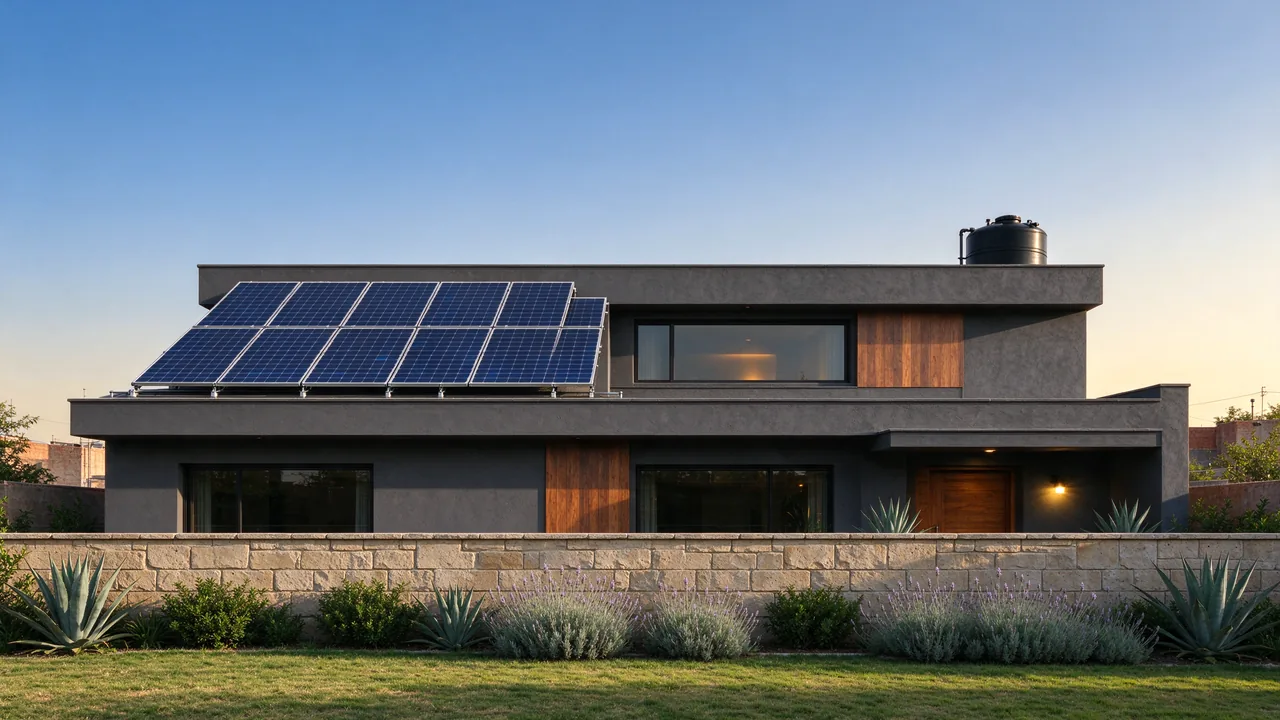
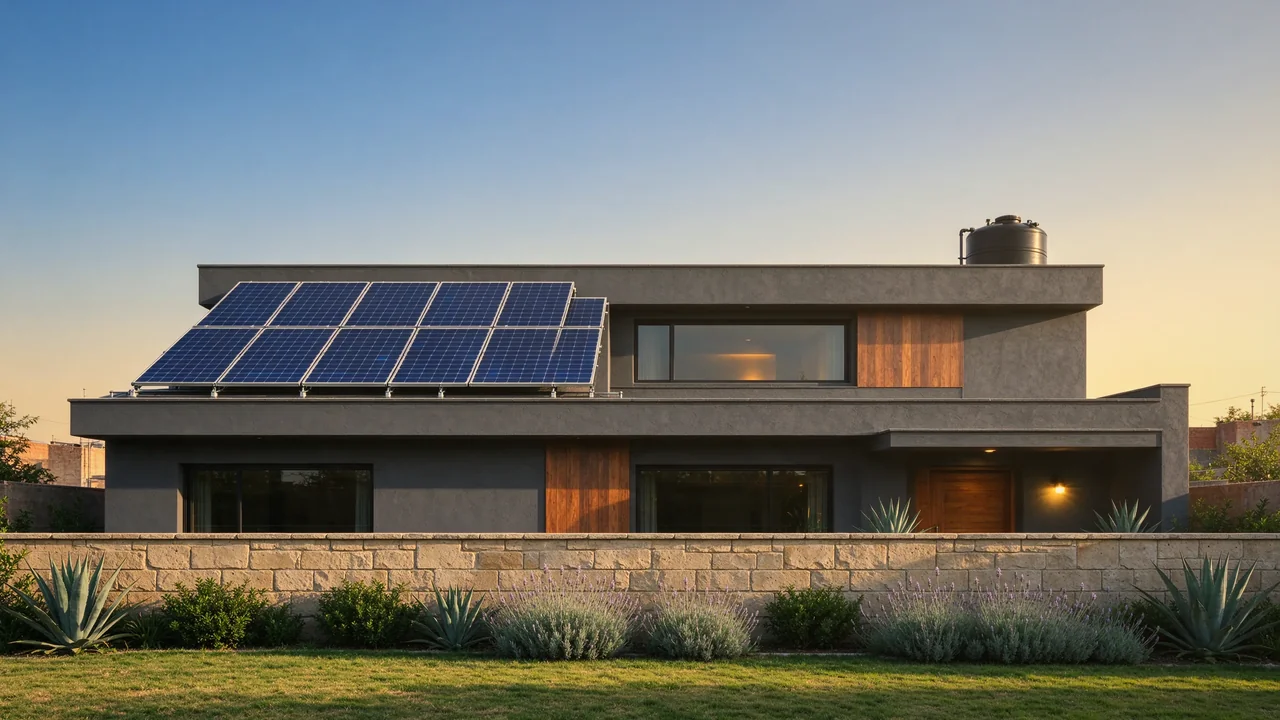
Fase 4: un solo estilo de luz cálida para todas las fotos
- herramientas/estilo-imagen.py: tonos divididos (altas luces ámbar,
  sombras azul petróleo), sol bajo, contraste y viñeta; exporta WebP en
  dos tamaños y conserva la transparencia. Sirve también para las fotos
  reales de Ecowatt.
- Aplicado a las capas de día del hero y a casa, negocio e industria;
  la de noche no cambia.
- sizes del hero corregido (la casa mide ~94vw en escritorio) y width/
  height en sus capas.
- docs/imagenes-ia.md: prompts listos y destinos para detalle de panel,
  instaladores y familia (sin créditos en Kling ni Higgsfield).

Claude-Session: https://claude.ai/code/session_018LXk8Kauve6fh3BffYK94r

diff --git a/index.html b/index.html
@@ -23,7 +23,7 @@
   <link rel="preconnect" href="https://fonts.googleapis.com">
   <link rel="preconnect" href="https://fonts.gstatic.com" crossorigin>
   <link rel="stylesheet" href="https://fonts.googleapis.com/css2?family=Red+Hat+Display:wght@600&family=Red+Hat+Text:wght@400;500;600&display=swap">
-  <link rel="preload" as="image" imagesrcset="assets/img/hero/dia-casa-1280.webp 1280w, assets/img/hero/dia-casa.webp 2400w" imagesizes="(min-width: 960px) 68vw, 120vw" fetchpriority="high">
+  <link rel="preload" as="image" imagesrcset="assets/img/hero/dia-casa-1280.webp 1280w, assets/img/hero/dia-casa.webp 2400w" imagesizes="(min-width: 960px) 94vw, (min-width: 768px) 100vw, 120vw" fetchpriority="high">
   <link rel="stylesheet" href="assets/css/ecowatt.css">
 
   <!--
@@ -196,17 +196,17 @@
 
       <div class="hero-escena">
         <div class="hero-capa hero-cielo" aria-hidden="true">
-          <img id="cielo-dia" alt="" src="assets/img/hero/dia-cielo.webp" srcset="assets/img/hero/dia-cielo-800.webp 800w, assets/img/hero/dia-cielo.webp 1600w" sizes="(min-width: 960px) 55vw, 100vw" fetchpriority="high" decoding="async">
-          <img id="cielo-noche" alt="" src="assets/img/hero/noche-cielo.webp" srcset="assets/img/hero/noche-cielo-800.webp 800w, assets/img/hero/noche-cielo.webp 1600w" sizes="(min-width: 960px) 55vw, 100vw" fetchpriority="low" decoding="async">
+          <img id="cielo-dia" alt="" src="assets/img/hero/dia-cielo.webp" width="1600" height="900" srcset="assets/img/hero/dia-cielo-800.webp 800w, assets/img/hero/dia-cielo.webp 1600w" sizes="(min-width: 960px) 55vw, 100vw" fetchpriority="high" decoding="async">
+          <img id="cielo-noche" alt="" src="assets/img/hero/noche-cielo.webp" width="1600" height="900" srcset="assets/img/hero/noche-cielo-800.webp 800w, assets/img/hero/noche-cielo.webp 1600w" sizes="(min-width: 960px) 55vw, 100vw" fetchpriority="low" decoding="async">
         </div>
         <div class="hero-casa">
           <div class="set is-on" id="set-dia">
-            <div class="hero-capa suelo"><img alt="" src="assets/img/hero/dia-suelo.webp" srcset="assets/img/hero/dia-suelo-1280.webp 1280w, assets/img/hero/dia-suelo.webp 2400w" sizes="(min-width: 960px) 68vw, 120vw" fetchpriority="high" decoding="async"></div>
-            <img class="recorte" alt="Casa contemporánea con paneles solares en la azotea, de día" src="assets/img/hero/dia-casa.webp" srcset="assets/img/hero/dia-casa-1280.webp 1280w, assets/img/hero/dia-casa.webp 2400w" sizes="(min-width: 960px) 68vw, 120vw" fetchpriority="high" decoding="async">
+            <div class="hero-capa suelo"><img alt="" src="assets/img/hero/dia-suelo.webp" width="2400" height="1350" srcset="assets/img/hero/dia-suelo-1280.webp 1280w, assets/img/hero/dia-suelo.webp 2400w" sizes="(min-width: 960px) 94vw, (min-width: 768px) 100vw, 120vw" fetchpriority="high" decoding="async"></div>
+            <img class="recorte" alt="Casa contemporánea con paneles solares en la azotea, de día" src="assets/img/hero/dia-casa.webp" width="2400" height="1350" srcset="assets/img/hero/dia-casa-1280.webp 1280w, assets/img/hero/dia-casa.webp 2400w" sizes="(min-width: 960px) 94vw, (min-width: 768px) 100vw, 120vw" fetchpriority="high" decoding="async">
           </div>
           <div class="set" id="set-noche">
-            <div class="hero-capa suelo"><img alt="" src="assets/img/hero/noche-suelo.webp" srcset="assets/img/hero/noche-suelo-1280.webp 1280w, assets/img/hero/noche-suelo.webp 2400w" sizes="(min-width: 960px) 68vw, 120vw" fetchpriority="low" decoding="async"></div>
-            <img class="recorte" alt="La misma casa de noche, con las ventanas iluminadas" src="assets/img/hero/noche-casa.webp" srcset="assets/img/hero/noche-casa-1280.webp 1280w, assets/img/hero/noche-casa.webp 2400w" sizes="(min-width: 960px) 68vw, 120vw" fetchpriority="low" decoding="async">
+            <div class="hero-capa suelo"><img alt="" src="assets/img/hero/noche-suelo.webp" width="2400" height="1350" srcset="assets/img/hero/noche-suelo-1280.webp 1280w, assets/img/hero/noche-suelo.webp 2400w" sizes="(min-width: 960px) 94vw, (min-width: 768px) 100vw, 120vw" fetchpriority="low" decoding="async"></div>
+            <img class="recorte" alt="La misma casa de noche, con las ventanas iluminadas" src="assets/img/hero/noche-casa.webp" width="2400" height="1350" srcset="assets/img/hero/noche-casa-1280.webp 1280w, assets/img/hero/noche-casa.webp 2400w" sizes="(min-width: 960px) 94vw, (min-width: 768px) 100vw, 120vw" fetchpriority="low" decoding="async">
           </div>
         </div>
         <div class="hero-tilt"></div>

diff --git a/herramientas/estilo-imagen.py b/herramientas/estilo-imagen.py
@@ -1,0 +1,123 @@
+"""Da a una foto el estilo visual de Ecowatt y la exporta en WebP, en dos tamaños.
+
+El estilo es luz cálida de atardecer con sombras azul petróleo, para que todas
+las fotos de la página se vean de la misma sesión:
+  - altas luces hacia ámbar y sombras hacia azul verdoso (los colores de la marca),
+  - un sol bajo que entra por una esquina (screen suave),
+  - un poco más de contraste y una viñeta ligera.
+
+Sirve para las imágenes generadas con IA y, sobre todo, para las fotos reales
+que mande Ecowatt: así todas quedan con la misma luz.
+
+Uso:
+  python3 herramientas/estilo-imagen.py ENTRADA SALIDA_BASE [--anchos 1200 720]
+         [--recorte 4:3] [--sol derecha|izquierda|ninguno] [--fuerza 1.0]
+
+Ejemplo:
+  python3 herramientas/estilo-imagen.py fotos/techo.jpg assets/img/secciones/techo --anchos 1200 720 --recorte 4:3
+  → assets/img/secciones/techo.webp (1200 px) y assets/img/secciones/techo-720.webp
+
+Una imagen con transparencia (PNG o WebP con canal alfa) conserva su alfa.
+Requiere Pillow y NumPy.
+"""
+import argparse
+import pathlib
+
+import numpy as np
+from PIL import Image
+
+AMBAR = np.array([1.00, 0.92, 0.81])      # multiplicador de altas luces (cálido)
+PETROLEO = np.array([0.86, 0.98, 1.04])   # multiplicador de sombras (azul verdoso)
+SOL = np.array([1.00, 0.72, 0.42])        # color del sol bajo
+
+
+def suave(a, b, x):
+    t = np.clip((x - a) / (b - a), 0, 1)
+    return t * t * (3 - 2 * t)
+
+
+def estilo(rgb, fuerza=1.0, sol='derecha'):
+    """rgb: arreglo float 0–1 de forma (alto, ancho, 3). Devuelve el arreglo con el estilo aplicado."""
+    h, w, _ = rgb.shape
+    lum = (rgb * [0.2126, 0.7152, 0.0722]).sum(-1, keepdims=True)
+
+    # 1. Tonos divididos: altas luces cálidas, sombras azul petróleo
+    alto = suave(0.40, 1.0, lum) * 0.75 * fuerza
+    bajo = (1 - suave(0.0, 0.55, lum)) * 0.9 * fuerza
+    out = rgb * (1 - alto) + rgb * AMBAR * alto
+    out = out * (1 - bajo) + out * PETROLEO * bajo
+
+    # 2. Balance general un poco más cálido
+    out = out * (1 + np.array([0.03, 0.0, -0.05]) * fuerza)
+
+    # 3. Sol bajo desde una esquina superior (mezcla screen)
+    if sol != 'ninguno':
+        yy, xx = np.mgrid[0:h, 0:w].astype(np.float32)
+        cx = w * (1.05 if sol == 'derecha' else -0.05)
+        cy = h * -0.10
+        d = np.sqrt(((xx - cx) / w) ** 2 + ((yy - cy) / h) ** 2)
+        luz = (np.exp(-(d ** 2) * 1.6) * 0.28 * fuerza)[..., None]
+        out = 1 - (1 - out) * (1 - SOL * luz)
+
+    # 4. Contraste en S suave y un poco más de saturación
+    out = np.clip(out, 0, 1)
+    out = out + (out - out * out) * (out - 0.5) * 0.35 * fuerza
+    gris = (out * [0.2126, 0.7152, 0.0722]).sum(-1, keepdims=True)
+    out = gris + (out - gris) * (1 + 0.06 * fuerza)
+
+    # 5. Viñeta ligera
+    yy, xx = np.mgrid[0:h, 0:w].astype(np.float32)
+    r2 = ((xx / w - 0.5) ** 2 + (yy / h - 0.5) ** 2) * 2
+    out = out * (1 - 0.14 * fuerza * r2[..., None] ** 1.2)
+    return np.clip(out, 0, 1)
+
+
+def recortar(im, proporcion):
+    a, b = (float(x) for x in proporcion.split(':'))
+    objetivo = a / b
+    w, h = im.size
+    if w / h > objetivo:
+        nw = round(h * objetivo)
+        x = (w - nw) // 2
+        return im.crop((x, 0, x + nw, h))
+    nh = round(w / objetivo)
+    y = (h - nh) // 2
+    return im.crop((0, y, w, y + nh))
+
+
+def procesar(entrada, salida_base, anchos=(1200, 720), proporcion=None, sol='derecha', fuerza=1.0, calidad=82):
+    im = Image.open(entrada)
+    alfa = im.getchannel('A') if im.mode in ('RGBA', 'LA') else None
+    im = im.convert('RGB')
+    if proporcion:
+        if alfa is not None:
+            raise SystemExit('No recortes imágenes con transparencia: se desalinean de sus otras capas.')
+        im = recortar(im, proporcion)
+    arr = np.asarray(im, dtype=np.float32) / 255
+    res = Image.fromarray((estilo(arr, fuerza, sol) * 255 + 0.5).astype(np.uint8))
+    if alfa is not None:
+        res.putalpha(alfa)
+    salida_base = pathlib.Path(salida_base)
+    salida_base.parent.mkdir(parents=True, exist_ok=True)
+    hechos = []
+    for i, ancho in enumerate(anchos):
+        ancho = min(ancho, res.width)
+        alto = round(res.height * ancho / res.width)
+        nombre = salida_base.with_name(salida_base.name + ('' if i == 0 else f'-{ancho}') + '.webp')
+        res.resize((ancho, alto), Image.LANCZOS).save(nombre, 'WEBP', quality=calidad, method=6)
+        hechos.append(f'{nombre} ({ancho}×{alto}, {nombre.stat().st_size // 1024} KB)')
+    return hechos
+
+
+if __name__ == '__main__':
+    ap = argparse.ArgumentParser(description=__doc__, formatter_class=argparse.RawDescriptionHelpFormatter)
+    ap.add_argument('entrada')
+    ap.add_argument('salida_base', help='ruta sin extensión; el primer ancho se guarda sin sufijo')
+    ap.add_argument('--anchos', type=int, nargs='+', default=[1200, 720])
+    ap.add_argument('--recorte', help='proporción, por ejemplo 4:3 o 16:9')
+    ap.add_argument('--sol', choices=['derecha', 'izquierda', 'ninguno'], default='derecha')
+    ap.add_argument('--fuerza', type=float, default=1.0, help='0 = sin cambios, 1 = estilo completo')
+    ap.add_argument('--calidad', type=int, default=82)
+    a = ap.parse_args()
+    for linea in procesar(a.entrada, a.salida_base, a.anchos, a.recorte, a.sol, a.fuerza, a.calidad):
+        print(linea)

diff --git a/docs/imagenes-ia.md b/docs/imagenes-ia.md
@@ -76,4 +76,113 @@ colors, no people, no text, no logos
 
 ## Si después quieren regenerarlas con Kling
 
-Los mismos prompts funcionan en Kling con `kling-image-v3_0_omni`. La foto de día va como texto a imagen, en 2K y 16:9. La de noche va como imagen a imagen, con la foto de día como `image_1`. Después corren `herramientas/preparar-hero.py` y ajustan `CONFIG.hero.porche` y `CONFIG.hero.techo` en `assets/js/ecowatt.js`.
+Los mismos prompts funcionan en Kling con `kling-image-v3_0_omni`. La foto de día va como texto a imagen, en 2K y 16:9. La de noche va como imagen a imagen, con la foto de día como `image_1`. Después corren `herramientas/preparar-hero.py`, luego `herramientas/estilo-imagen.py` sobre los archivos de día (ver abajo), y ajustan `CONFIG.hero.porche` en `assets/js/ecowatt.js`.
+
+## Fase 4: un solo estilo para todas las fotos
+
+**Problema:** las fotos de la página no parecían de la misma sesión. La casa tenía luz cálida y los techos de negocio e industria, luz blanca y fría de mediodía.
+
+**Arreglo:** `herramientas/estilo-imagen.py` da a cada foto el mismo tratamiento de color, como en un editor de fotos. No genera nada nuevo:
+- altas luces hacia ámbar y sombras hacia azul petróleo, que son los colores de la marca;
+- un sol bajo que entra por una esquina superior;
+- un poco más de contraste y una viñeta ligera.
+
+```
+python3 herramientas/estilo-imagen.py ENTRADA SALIDA_BASE --anchos 1200 720 [--recorte 4:3] [--sol derecha|izquierda|ninguno] [--fuerza 1.0]
+```
+
+Ya se aplicó a:
+
+| Archivos | Origen |
+|---|---|
+| `hero/dia-suelo`, `hero/dia-casa` (2400 y 1280) | Las capas de día del hero. Se usa el mismo tratamiento en las dos para que la casa recortada y el jardín queden igual. La transparencia se conserva |
+| `hero/dia-cielo` (1600 y 800) | El cielo del hero |
+| `secciones/casa`, `secciones/industria` | Los WebP anteriores |
+| `secciones/negocio` | El PNG original de Higgsfield (2048 px), recortado a 4:3 |
+
+Las fotos de noche no se tocaron.
+
+Cualquier foto real que mande Ecowatt debe pasar por el mismo script, para que combine con el resto de la página.
+
+## Imágenes pendientes (necesitan créditos)
+
+La Fase 4 pide cuatro imágenes con el mismo estilo. Al hacerla:
+- Kling tenía **0 créditos**.
+- Higgsfield tenía **0.05**. Su modelo más barato (Z-Image) cuesta 0.15 por imagen y Seedream 5.0 Flash, 0.5.
+- Un servicio gratuito (Pollinations) devolvía imágenes con marca de agua y de baja calidad.
+
+Por eso:
+
+| Imagen | Estado | Dónde va (Fase 5) | Archivo |
+|---|---|---|---|
+| Casa mexicana moderna con paneles al atardecer | **Resuelta**: es la casa del hero con la luz cálida nueva | Hero | `hero/dia-*` |
+| Detalle de un panel con reflejos | Pendiente | Tarjeta de ventajas o garantía | `secciones/detalle-panel{,-720}.webp` |
+| Instaladores con uniforme en un techo | Pendiente. **Mejor una foto real** del equipo de Ecowatt (ver la nota) | Paso "Instalación" de "Cómo funciona" | `secciones/instalacion{,-720}.webp` |
+| Familia en casa con luz cálida | Pendiente | Tarjeta de ventajas, **nunca como testimonio** | `secciones/familia{,-720}.webp` |
+
+> **Nota sobre los instaladores:** una imagen de IA mostraría personas que no trabajan en Ecowatt, con un uniforme que no es el suyo. Es mejor una foto real de la cuadrilla. Si se usa IA, la ropa va sin logotipos y la imagen lleva la etiqueta "Imagen ilustrativa".
+
+### Prompts listos
+
+Para que las tres salgan con la misma luz que el resto, cada prompt termina con este bloque de estilo:
+
+```
+Warm late-afternoon golden-hour light, low sun from the right, long soft shadows,
+deep teal-blue shadows and warm amber highlights. Candid documentary photography,
+not posed, not stock-looking, real textures, 35mm lens, natural depth of field.
+Setting: León, Guanajuato, Mexico. No text, no logos, no watermarks.
+```
+
+**Detalle de panel** (3:2, 2K):
+
+```
+Close-up photograph of the corner of a dark blue monocrystalline solar panel
+mounted on an aluminum rail on the flat roof of a contemporary Mexican house. The
+glass reflects a warm orange sunset sky with a few soft clouds; the cell grid,
+thin silver busbars and the anodized frame edge are crisp. Slightly low angle
+along the panel surface; the charcoal parapet and a black rooftop water tank are
+softly out of focus in the background. [bloque de estilo]
+```
+
+**Instaladores** (4:3, 2K):
+
+```
+Two Mexican solar installers in plain dark teal work shirts without any logo or
+text, white safety helmets and harnesses, fixing a solar panel onto aluminum rails
+on the flat roof of a house in León. Candid moment in the middle of the task: one
+kneels and tightens a clamp with a hand tool, the other steadies the panel. Seen
+from roof level, slightly elevated; neighboring flat rooftops and water tanks in
+the soft background. Faces partly turned away, not looking at the camera.
+[bloque de estilo]
+```
+
+**Familia** (4:5 o 4:3, 2K):
+
+```
+A Mexican family (mother, father and a girl of about eight) in the living room of
+a contemporary home in the early evening. Warm interior lamps are on; the girl
+switches on a floor lamp while her parents laugh together on the sofa. A large
+window shows the warm dusk outside. Natural, unposed moment, nobody looks at the
+camera, lived-in details (books, a blanket, plants). [bloque de estilo]
+```
+
+**Hero al atardecer de verdad** (opcional; imagen a imagen sobre la foto de día, igual que la de noche):
+
+```
+Edit this exact photo: keep the same house, same camera angle, framing and
+composition, every element in exactly the same position and size. Change only the
+time of day to golden hour about 30 minutes before sunset: warm low sun from the
+right, long soft shadows, a clear sky from soft blue at the top to warm peach near
+the horizon, the solar panels catching warm reflections. Photorealistic, no people,
+no text.
+```
+
+**Después de generarlas:**
+
+```
+python3 herramientas/estilo-imagen.py detalle.png assets/img/secciones/detalle-panel --anchos 1200 720 --recorte 3:2
+python3 herramientas/estilo-imagen.py instaladores.png assets/img/secciones/instalacion --anchos 1200 720 --recorte 4:3
+python3 herramientas/estilo-imagen.py familia.png assets/img/secciones/familia --anchos 1200 720 --recorte 4:3
+```
+
+En el HTML van con `loading="lazy"`, `decoding="async"`, `width` y `height`, `srcset` y `sizes`, y un `alt` que describa la escena. Las de IA llevan además la etiqueta "Imagen ilustrativa".

diff --git a/README.md b/README.md
@@ -11,6 +11,7 @@ assets/img/              Logo, logo inverso, favicon e ícono para iOS
 docs/plan-de-diseno.md   Paleta, tipografía, wireframes, principios y revisión del plan
 docs/imagenes-ia.md      Imágenes generadas con IA: modelos, prompts y cómo regenerarlas
 herramientas/preparar-hero.py  Recorta la casa y prepara las 3 capas del hero a partir de una foto
+herramientas/estilo-imagen.py  Da a cualquier foto la luz cálida de la página y la exporta en WebP en dos tamaños
 ```
 
 Para verla en tu compu: `python3 -m http.server` y abre `http://localhost:8000`.
@@ -19,8 +20,8 @@ Para verla en tu compu: `python3 -m http.server` y abre `http://localhost:8000`.
 
 1. **Conecta el formulario.** En `assets/js/ecowatt.js`, pon en `CONFIG.formulario.endpoint` la URL que va a recibir los datos (Formspree, Netlify Forms, un webhook o un PHP propio; llegan por POST multipart, con la foto del recibo). Mientras esté vacío, el formulario funciona en **modo demostración**: muestra el mensaje de éxito, pero no manda los datos a ningún lado.
 2. **Ajusta la calculadora.** Revisa cada valor marcado con `[Ajustar]` en `CONFIG` y luego cambia `datosDeEjemplo` a `false` para quitar la etiqueta "Valores de ejemplo".
-3. **Reemplaza los placeholders** de la lista de abajo y borra cada etiqueta `<span class="ej">Ejemplo</span>` que acompaña al dato que ya confirmaste.
-4. **Pon las fotos reales.** En los proyectos, cambia la ilustración de `.proyecto-ilus` por la foto del proyecto. En "Quiénes somos", cambia cada `.marco` por la foto del equipo, la camioneta o la bodega. Usa WebP de unos 1200 px de ancho, con `loading="lazy"` y un texto alternativo que describa la foto.
+3. **Reemplaza los placeholders** de la lista de abajo y borra cada etiqueta `<span class="ej">EDITAR</span>` que acompaña al dato que ya confirmaste.
+4. **Pon las fotos reales.** En los proyectos, cambia la ilustración de `.proyecto-ilus` por la foto del proyecto. En "Quiénes somos", cambia cada `.marco` por la foto del equipo, la camioneta o la bodega. Pásalas antes por `python3 herramientas/estilo-imagen.py foto.jpg assets/img/secciones/nombre --anchos 1200 720 --recorte 4:3`: así quedan con la misma luz que el resto de la página, en WebP y en dos tamaños. En el HTML usa `loading="lazy"`, `width` y `height`, y un texto alternativo que describa la foto.
 
 ## Páginas por ciudad
 
